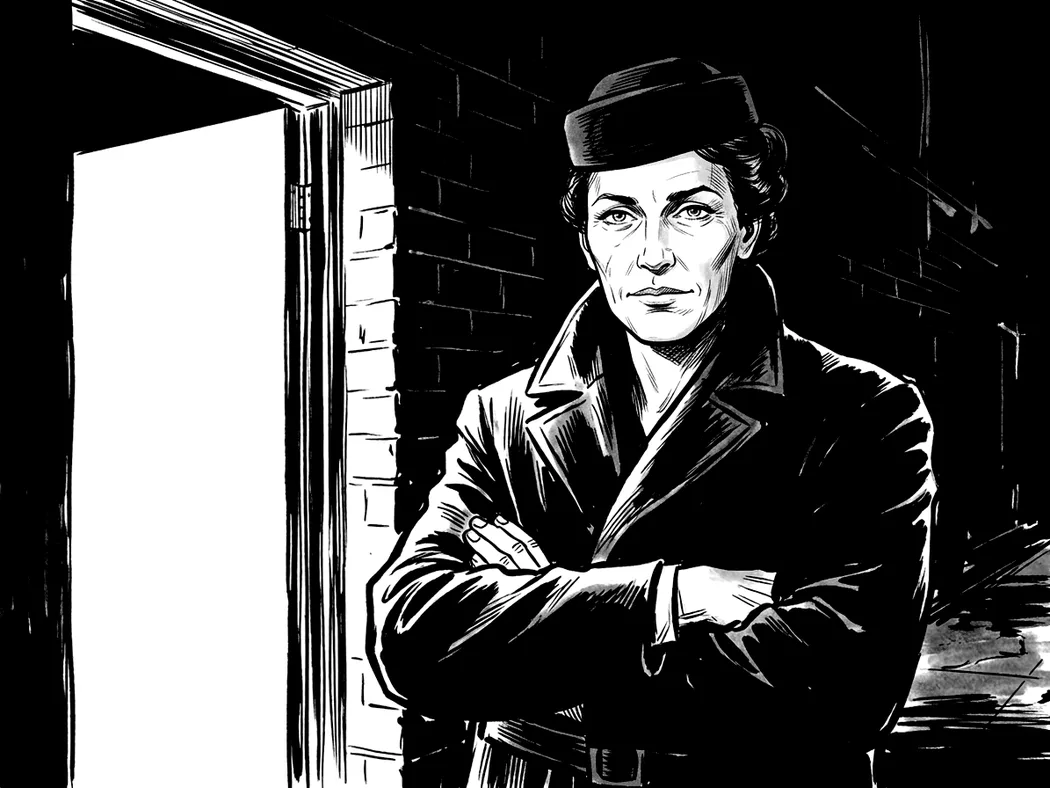
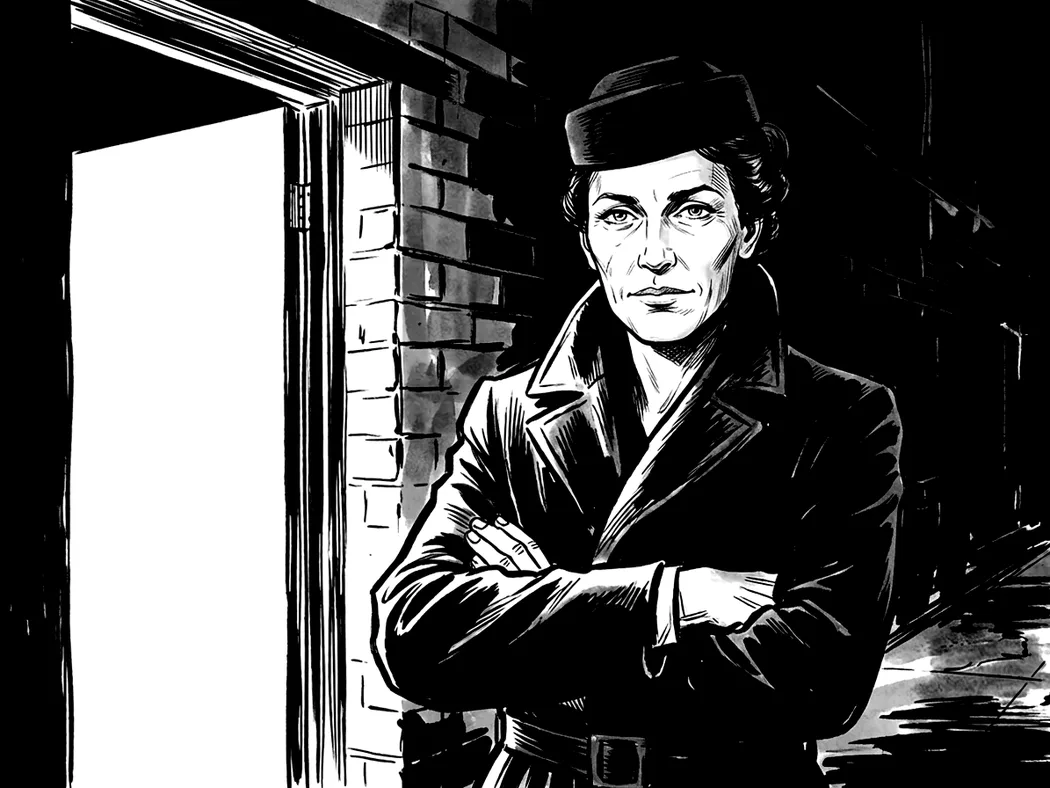
Rita om livvakten, man och kvinna, i den nya stilen
Mannen med den gamla bilden som referens för motivet. Kvinnan med två
referenser: den gamla kvinnan för personen och den nya mannen för scen och
stil, med smalare axlar och bälte i midjan (Jonas 2026-11-15).

Claude-Session: https://claude.ai/code/session_01X82C4AptUEE9LHKngPSzUq

diff --git a/src/scenes/sceneImages.js b/src/scenes/sceneImages.js
@@ -91,7 +91,7 @@ export const SCENE_IMAGES = /** @type {const} */ ({
   roleDetectiveWoman: { src: roleDetectiveWoman, alt: 'En kvinnlig detektiv i ljus trenchcoat och fedora antecknar i ett block i en regnig gränd under en gatlykta.', position: '100% 30%' },
   roleDetectiveMan: { src: roleDetectiveMan, alt: 'En manlig detektiv i ljus trenchcoat och fedora antecknar i ett block i en regnig gränd under en gatlykta.', position: '100% 30%' },
   roleDoctorWoman: { src: roleDoctorWoman, alt: 'En kvinnlig läkare i vit rock med stetoskop står med armarna i kors i sin mottagning, i ljuset från en skrivbordslampa.', position: '100% 30%' },
-  roleBodyguardWoman: { src: roleBodyguardWoman, alt: 'En lång livvakt i bältad rock och liten hatt står med armarna i kors vid en upplyst port en natt och ser prövande på oss.', position: '90% 30%' },
+  roleBodyguardWoman: { src: roleBodyguardWoman, alt: 'En lång, smal livvakt i bältad rock och liten hatt står med armarna i kors vid en upplyst port en natt och ser prövande på oss.', position: '90% 30%' },
   roleBodyguardMan: { src: roleBodyguardMan, alt: 'En stor livvakt med mustasch, i rock och fedora, står med armarna i kors vid en upplyst port en natt och ser rakt på oss.', position: '90% 30%' },
   roleDoctorMan: { src: roleDoctorMan, alt: 'En läkare med glasögon och mustasch, i vit rock med stetoskop, står vid skrivbordet i sin mottagning, i ljuset från en skrivbordslampa.', position: '100% 30%' },
   roleLawyerWoman: { src: roleLawyerWoman, alt: 'En advokat i knäppt dräkt, blus med rosett och liten hatt står i dörren till sin upplysta byrå med en tjock akt mot sidan och glasögonen i handen.', position: '100% 30%' },

diff --git a/docs/bildsmak.md b/docs/bildsmak.md
@@ -343,6 +343,9 @@ en regel.
   `roll-taxichauffor-kvinna` ritad med den nya mannen som enda referens blev
   "sämre"; med två referenser (gamla kvinnan för personen, nya mannen för
   scen och stil) blev den "bättre".
+  `roll-livvakt-man` ritad om med den gamla bilden som referens: "Vi kör på
+  de". `roll-livvakt-kvinna` med två referenser (gamla kvinnan, nya mannen)
+  och smalare axlar: "Mycket bra".
 
 ## Bilder att byta
 
